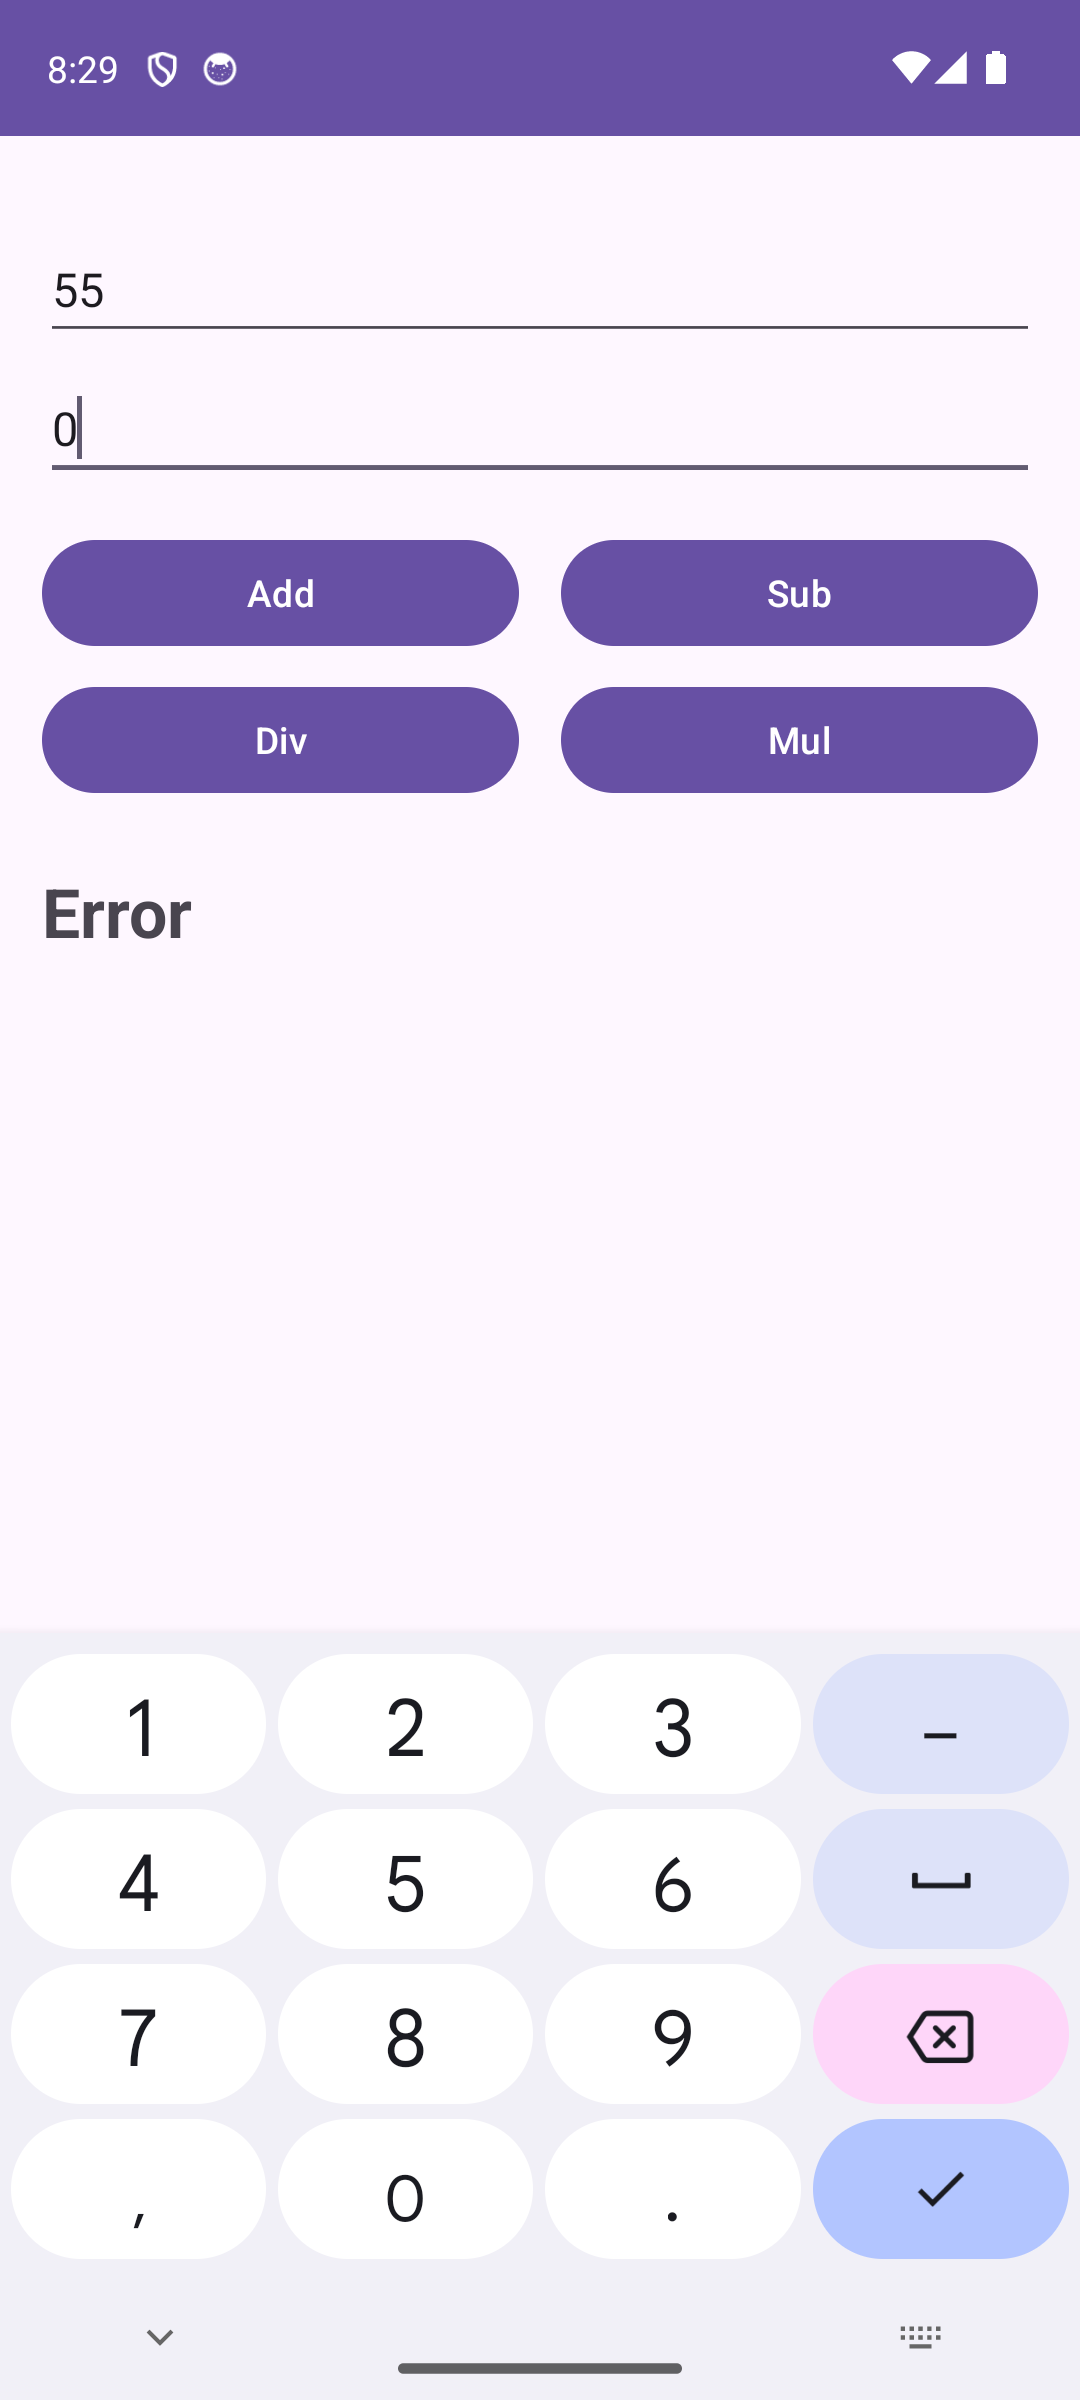
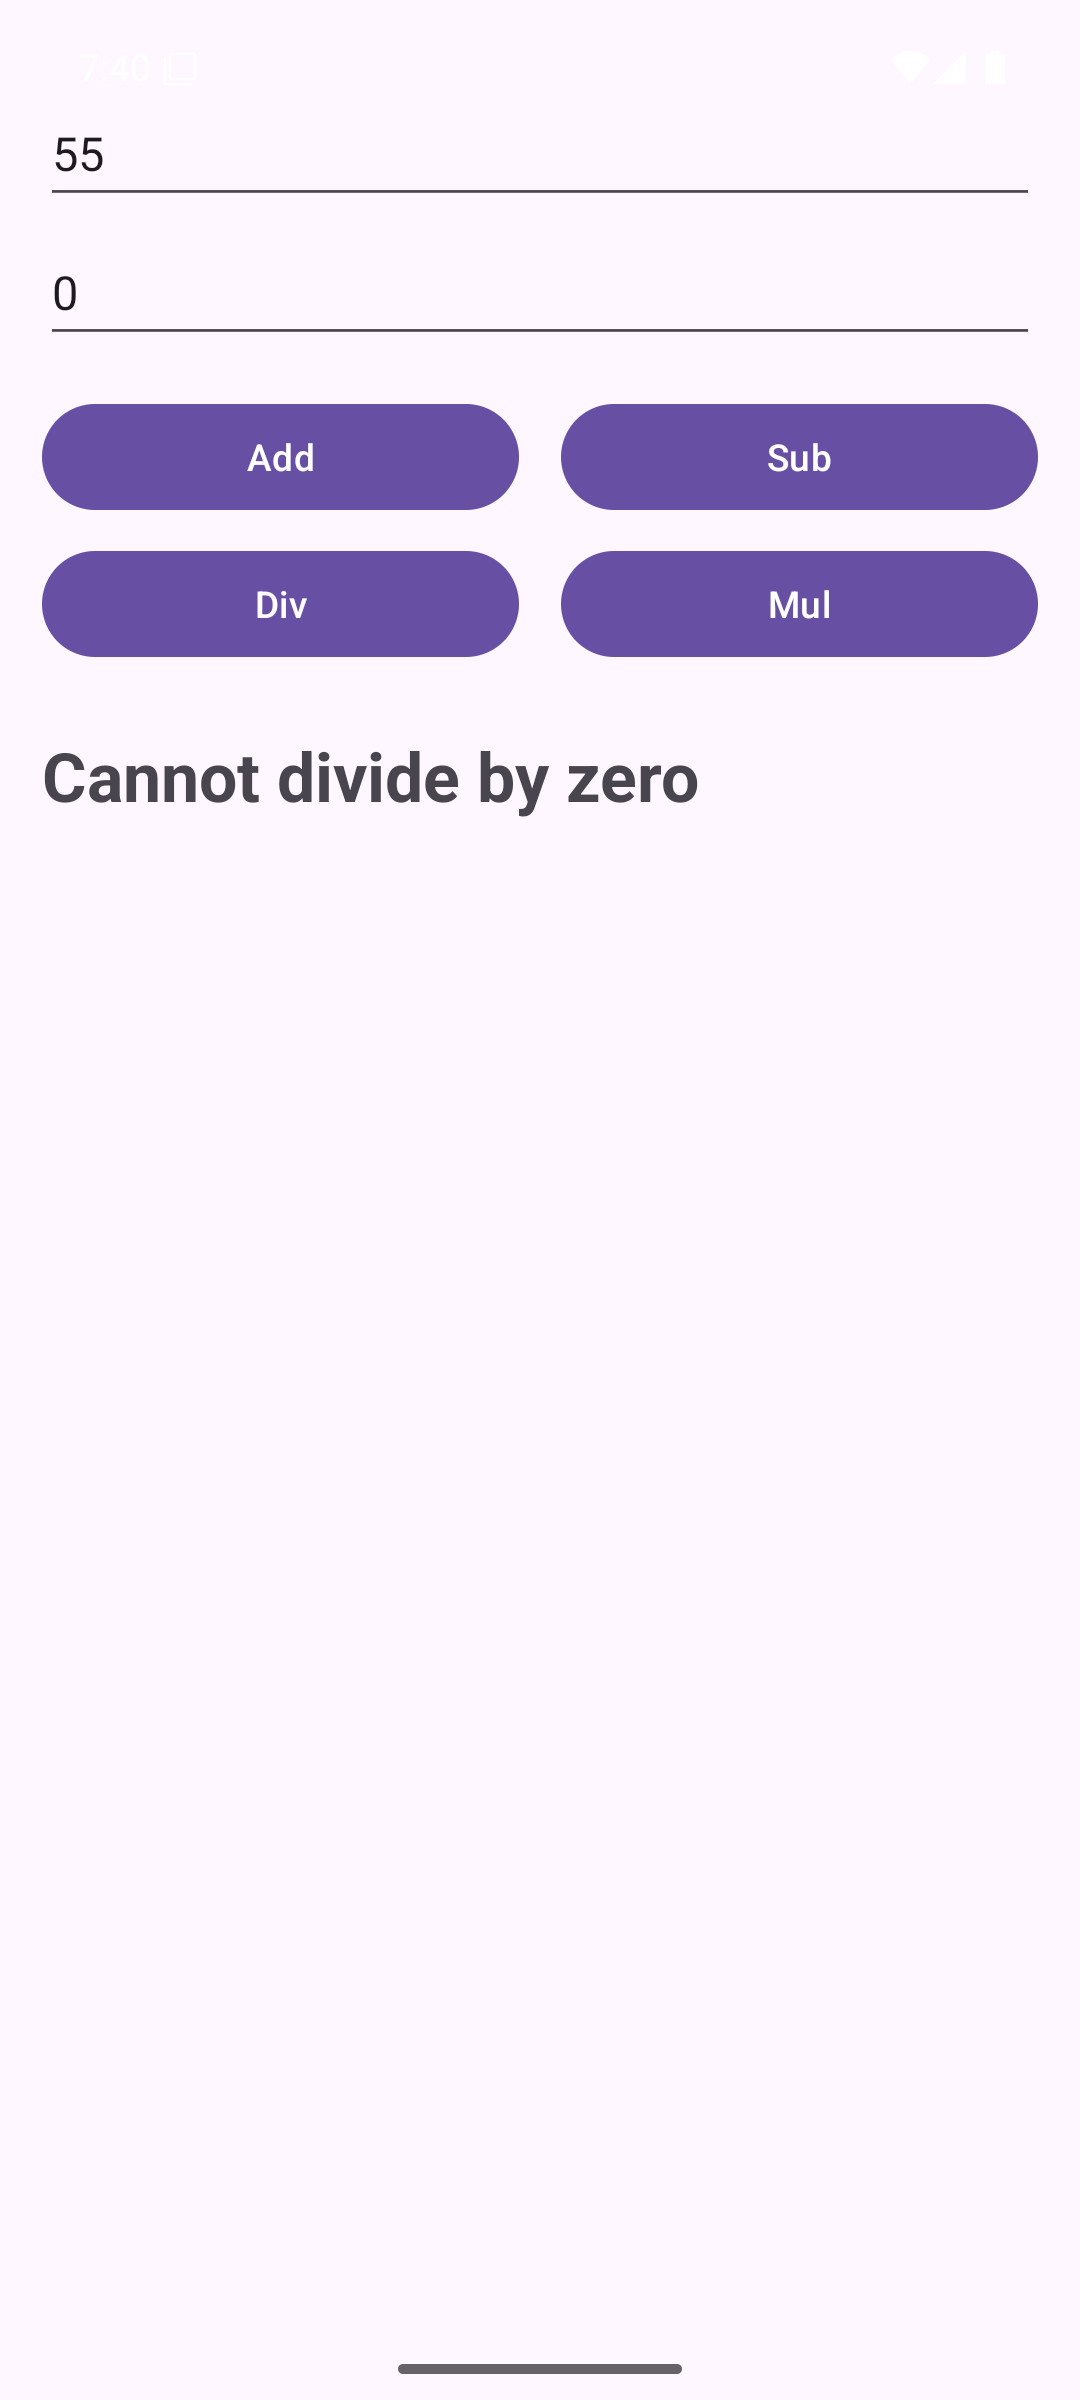
update

diff --git a/app/src/main/java/com/example/android/SimpleCalc/MainActivity.java b/app/src/main/java/com/example/android/SimpleCalc/MainActivity.java
@@ -43,7 +43,7 @@ public class MainActivity extends AppCompatActivity {
             compute(Calculator.Operator.DIV);
         } catch (IllegalArgumentException iae) {
             Log.e(TAG, "IllegalArgumentException", iae);
-            mResultTextView.setText(getString(R.string.computationError));
+            mResultTextView.setText(getString(R.string.divide_by_zero));
         }
     }
 
@@ -59,7 +59,7 @@ public class MainActivity extends AppCompatActivity {
             operandTwo = getOperand(mOperandTwoEditText);
         } catch (NumberFormatException nfe) {
             Log.e(TAG, "NumberFormatException", nfe);
-            mResultTextView.setText(getString(R.string.computationError));
+            mResultTextView.setText(getInputErrorMessage());
             return;
         }
 
@@ -86,6 +86,27 @@ public class MainActivity extends AppCompatActivity {
                 break;
         }
         mResultTextView.setText(result);
+    }
+
+    private String getInputErrorMessage() {
+        boolean firstEmpty = TextUtils.isEmpty(mOperandOneEditText.getText().toString());
+        boolean secondEmpty = TextUtils.isEmpty(mOperandTwoEditText.getText().toString());
+
+        if (firstEmpty) {
+            mOperandOneEditText.setError(getString(R.string.operand_one_empty));
+        }
+        if (secondEmpty) {
+            mOperandTwoEditText.setError(getString(R.string.operand_two_empty));
+        }
+
+        if (firstEmpty && secondEmpty) {
+            return getString(R.string.both_operands_empty);
+        } else if (firstEmpty) {
+            return getString(R.string.operand_one_empty);
+        } else if (secondEmpty) {
+            return getString(R.string.operand_two_empty);
+        }
+        return getString(R.string.computationError);
     }
 
     private static Double getOperand(EditText operandEditText) {

diff --git a/app/src/test/java/com/example/android/SimpleCalc/CalculatorTest.java b/app/src/test/java/com/example/android/SimpleCalc/CalculatorTest.java
@@ -72,6 +72,11 @@ public class CalculatorTest {
         mCalculator.div(32d, 0d);
     }
 
+    @Test(expected = IllegalArgumentException.class)
+    public void divZeroByZeroThrows() {
+        mCalculator.div(0d, 0d);
+    }
+
     @Test
     public void mulTwoNumbers() {
         double resultMul = mCalculator.mul(32d, 2d);

diff --git a/README.md b/README.md
@@ -8,9 +8,10 @@ Aplikacija ponuja osnovne računske operacije med dvema številoma:
 - **Vnos operandov**: Dve ločeni vnosni polji za vnos števil (prvi in drugi operand).
 - **Seštevanje (Add)**: Izračun vsote dveh števil z uporabo operacije `mCalculator.add()`.
 - **Odštevanje (Sub)**: Izračun razlike dveh števil z uporabo operacije `mCalculator.sub()`.
-- **Deljenje (Div)**: Izračun količnika z operacijo `mCalculator.div()`. Aplikacija varno obravnava deljenje z nič in uporabniku namesto neskončnosti izpiše napako (`Error`).
+- **Deljenje (Div)**: Izračun količnika z operacijo `mCalculator.div()`. Pri deljenju z nič aplikacija namesto neskončnosti izpiše opozorilo `Cannot divide by zero`.
 - **Množenje (Mul)**: Izračun zmnožka z operacijo `mCalculator.mul()`.
-- **Prikaz rezultata**: Veliko in pregledno besedilno polje pod gumbi, ki takoj prikaže rezultat ali opozorilo `Error` v primeru neveljavnega ali praznega vnosa.
+- **Prikaz rezultata**: Veliko in pregledno besedilno polje pod gumbi, ki prikaže rezultat ali opozorilo.
+- **Prazen vnos**: Če je polje prazno, aplikacija ne računa, ampak izpiše, katero število manjka (`Enter the first number`, `Enter the second number` ali `Enter both numbers`), prazno polje pa označi z rdečo ikono.
 
 Vsa uporabniška besedila in opozorila so shranjena v `strings.xml`. Pred klici računskih operacij se preverja veljavnost vnosa, da se preprečijo sesutja aplikacije.
 
@@ -23,16 +24,16 @@ Aplikacija ima nastavljeno prilagojeno ikono kalkulatorja z vijoličnim ozadjem 
 - `app/src/main/res/drawable/ic_launcher_background.xml`
 - `app/src/main/res/mipmap-*/ic_launcher.png`
 
-## Posnetki delovanja aplikacije v AVD emulatorju
+## Posnetki delovanja aplikacije v AVD emulatorju (Pixel 7, Android 16)
 
 | Začetni zaslon | Seštevanje (55 + 25) | Odštevanje (55 - 25) |
 |---|---|---|
 | ![Začetni zaslon](screenshot_main.png) | ![Seštevanje](screenshot_add.png) | ![Odštevanje](screenshot_sub.png) |
 
-| Deljenje (55 / 25) | Množenje (55 * 25) | Deljenje z 0 (55 / 0) | Prazen vnos (Error) |
+| Deljenje (55 / 25) | Množenje (55 * 25) | Deljenje z 0 (55 / 0) | Prazno prvo polje |
 |---|---|---|---|
 | ![Deljenje](screenshot_div.png) | ![Množenje](screenshot_mul.png) | ![Deljenje z 0](screenshot_div_zero.png) | ![Prazen vnos](screenshot_empty.png) |
 
 ## Enotni testi (Unit Tests)
 
-Projekt vključuje celovite JUnit 4 lokalne enotne teste v razredu `CalculatorTest.java` (`app/src/test/java/com/example/android/SimpleCalc/CalculatorTest.java`), ki preverjajo delovanje seštevanja, odštevanja, množenja, deljenja, računanje z negativnimi števili, decimalnimi števili, velikimi števili ter pravilno proženje izjeme ob deljenju z nič.
+Projekt vključuje celovite JUnit 4 lokalne enotne teste v razredu `CalculatorTest.java` (`app/src/test/java/com/example/android/SimpleCalc/CalculatorTest.java`), ki preverjajo delovanje seštevanja, odštevanja, množenja, deljenja, računanje z negativnimi števili, decimalnimi števili, velikimi števili ter pravilno proženje izjeme ob deljenju z nič (55 / 0 in 0 / 0).
